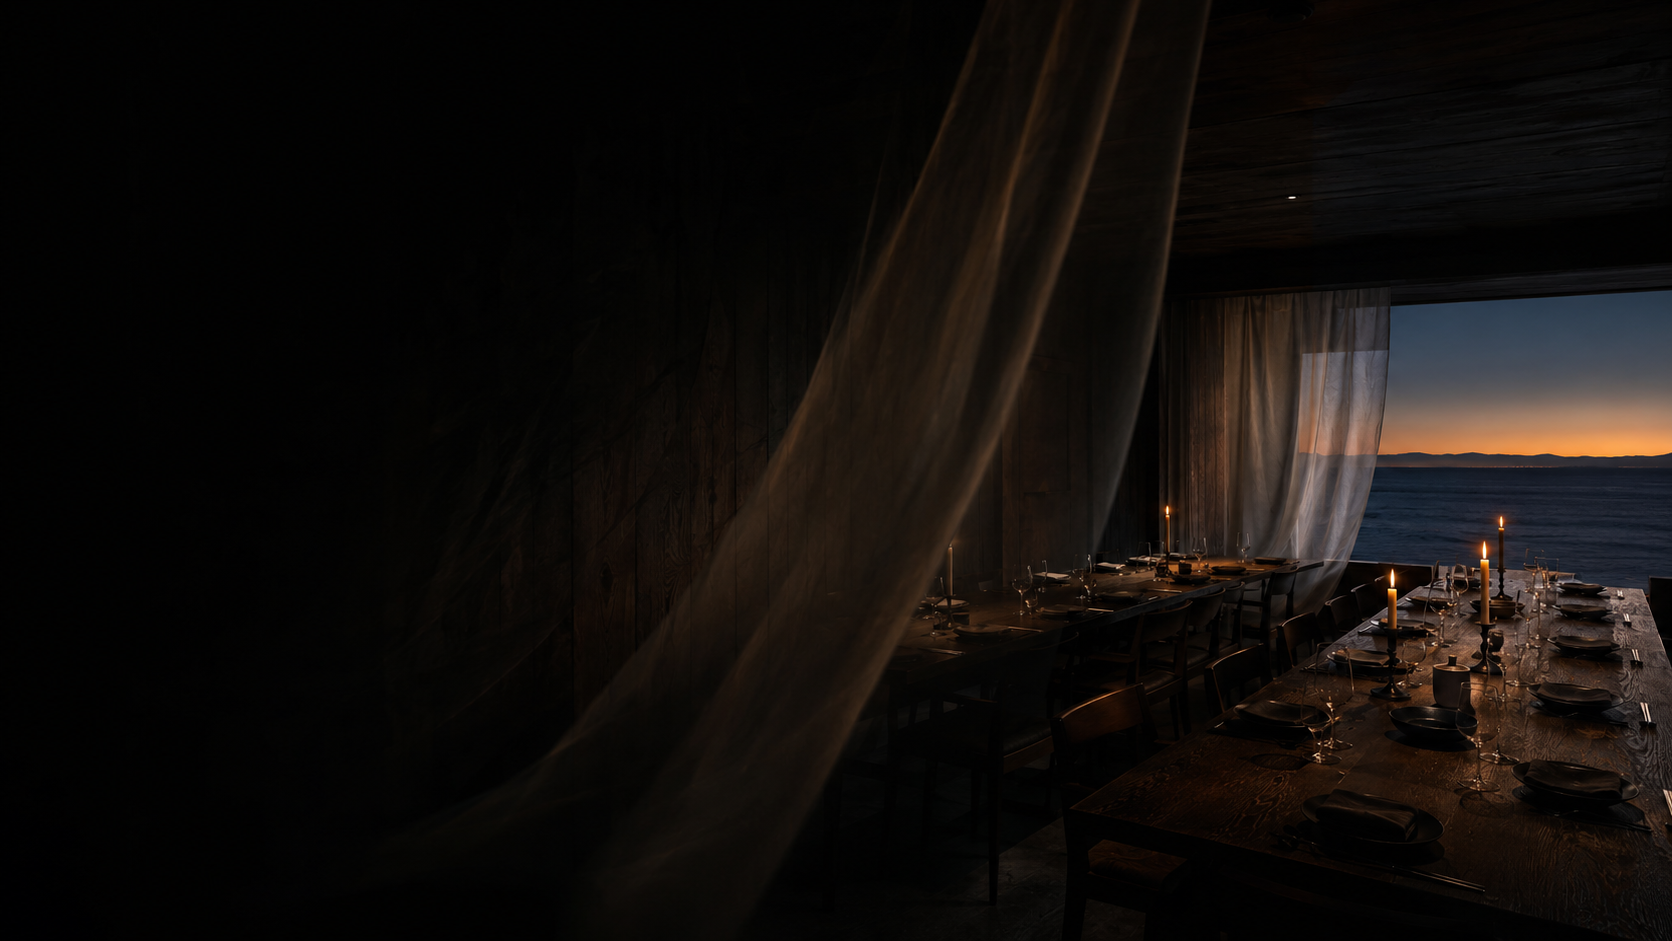
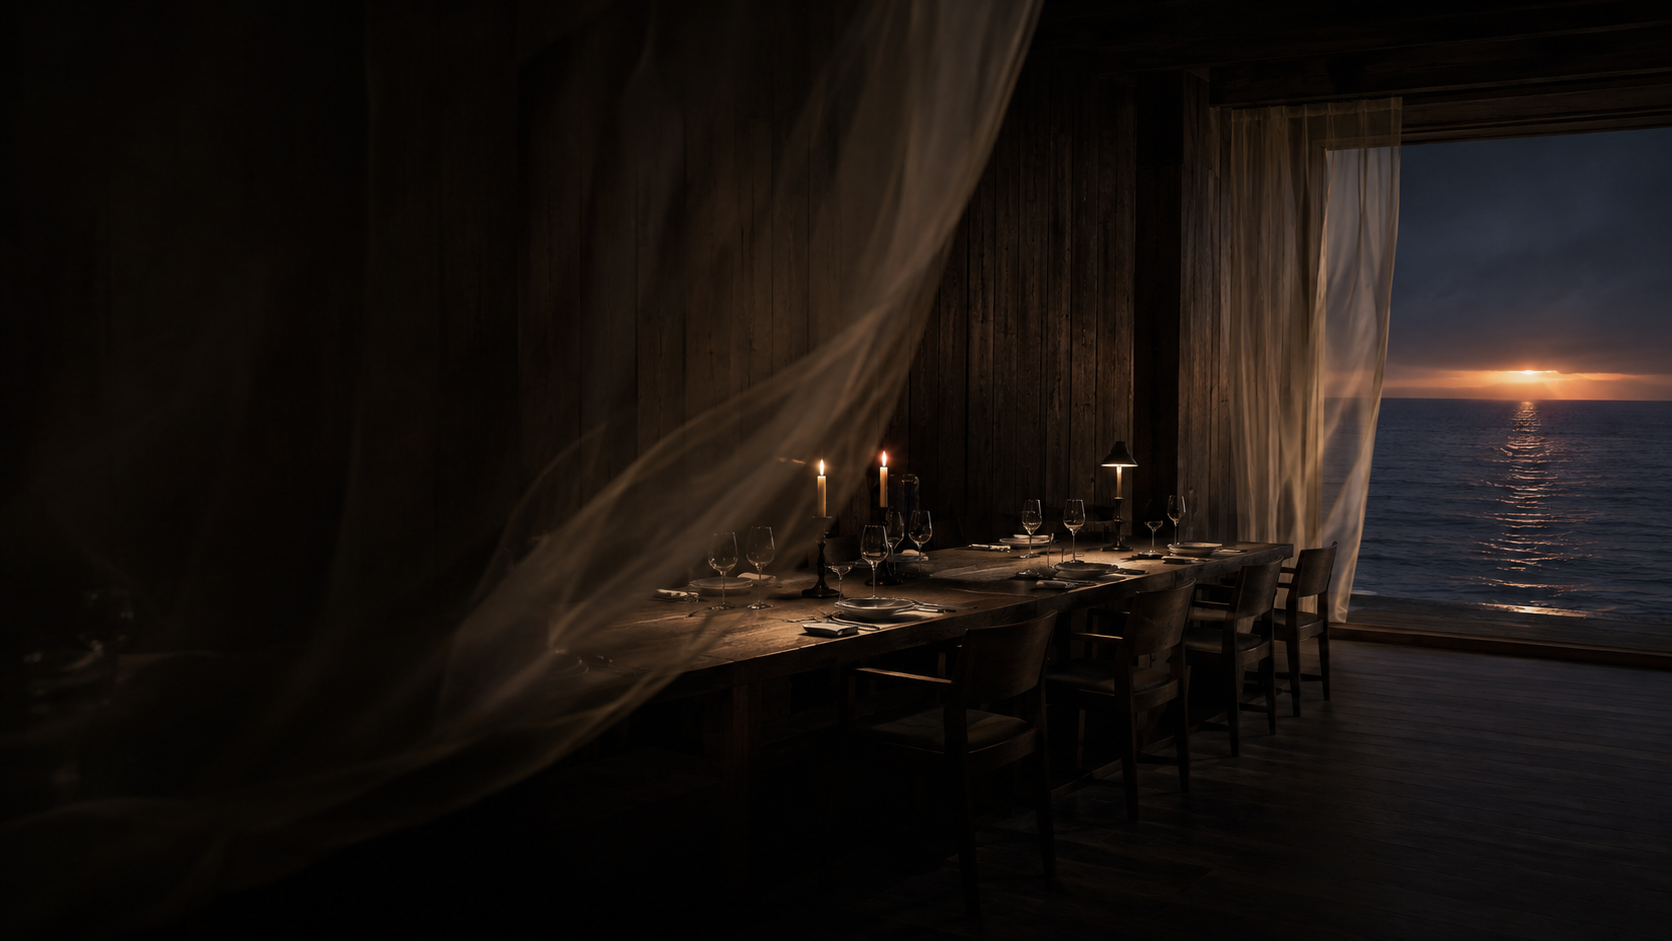
SEREIN: higher-quality room photograph, opened crop
Swaps in the fuller interior (long candlelit table, curtain, window to
the Pacific) and shifts the crop and scrim so the table reads rather
than just the window end.

Claude-Session: https://claude.ai/code/session_01F4GttbmvPVSQQZPYLN2nDg

Changed region(s): [[0.2488, 0.0, 1.0, 0.8937], [0.0311, 0.678, 0.0933, 0.7088], [0.5909, 0.7396, 0.622, 0.7705]]

diff --git a/app/(serein)/serein/page.tsx b/app/(serein)/serein/page.tsx
@@ -258,11 +258,11 @@ export default function SereinPage() {
             fill
             quality={86}
             sizes="100vw"
-            className="object-cover object-[62%_center]"
+            className="object-cover object-[46%_center]"
           />
           <div
             aria-hidden
-            className="absolute inset-0 bg-gradient-to-r from-[#05070B] via-[#05070B]/45 to-transparent"
+            className="absolute inset-0 bg-gradient-to-r from-[#05070B] via-[#05070B]/35 to-transparent"
           />
           <div className="absolute inset-0 flex items-center">
             <div className="mx-auto w-full max-w-[1200px] px-5 sm:px-8">
